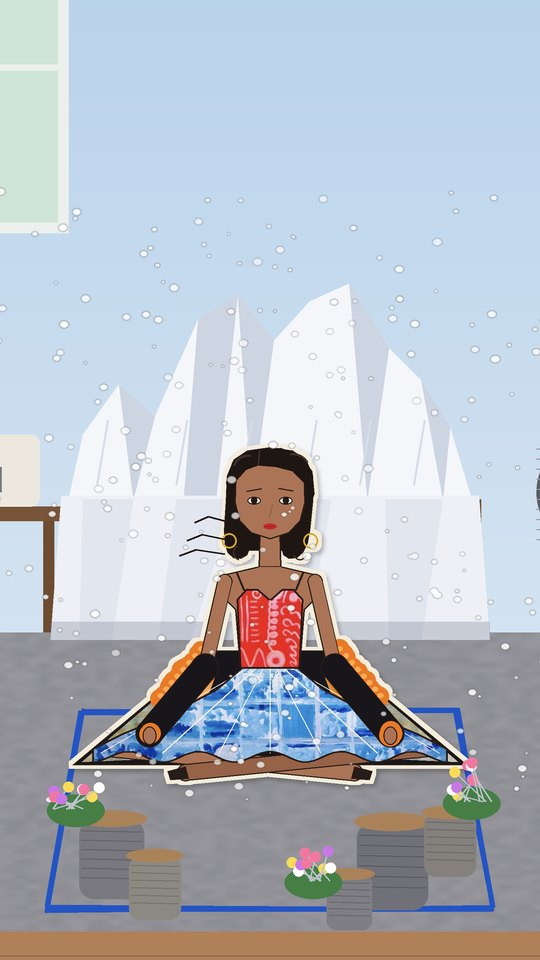
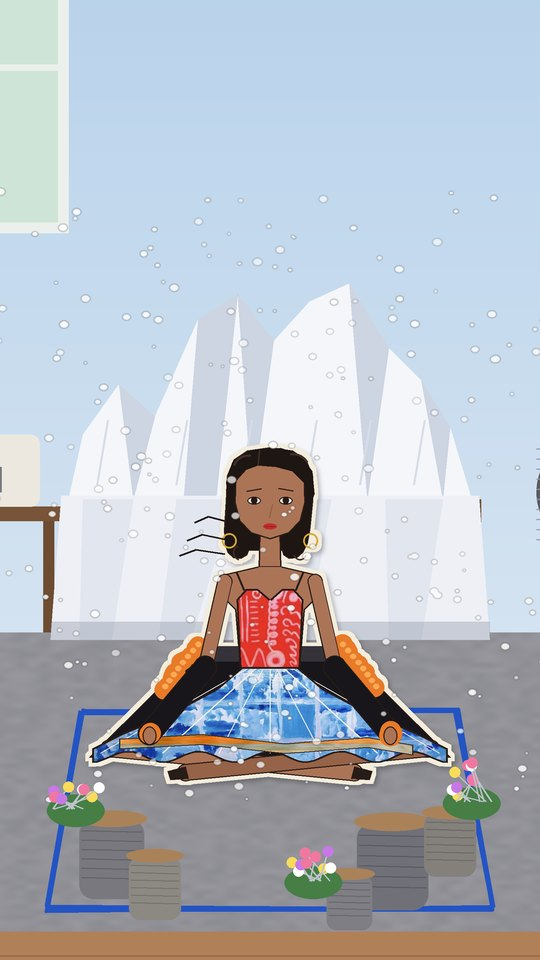
Reel 3 storyboard: tie wrap coat (Janaki on the belt, plain inside), jeweller frame, matching mirror pose
Claude-Session: https://claude.ai/code/session_019PesBt99WngamYtmRE4Gta

Changed region(s): [[0.1185, 0.6562, 0.8593, 0.8125]]

diff --git a/reel3/board.py b/reel3/board.py
@@ -356,15 +356,14 @@ def room(state="meditate"):
         d.rounded_rectangle([h[0] - 8, h[1] - 60, h[0] + 12, h[1] + 10], 6, fill=(36, 84, 196))
         # the coat lies folded beside her, lining up
         d.polygon([(1480, 3380), (1800, 3400), (1840, 3580), (1460, 3580)], fill=BLACK)
-        tex_fill(lay, JANAKI, [(1510, 3410), (1780, 3425), (1810, 3550), (1490, 3550)])
         fur_chain(ImageDraw.Draw(lay), [(1480, 3380), (1800, 3400)], 22, 9)
+        G2._tex_stretch(lay, JANAKI, [(1450, 3470), (1850, 3476), (1852, 3506), (1448, 3500)])
     elif state == "stitch":
         f = G2.draw(lay, 1080, GT, GH, pose="seat", arms="stitch", eyes="open")
         d = ImageDraw.Draw(lay)
         lap = f.pl([(-150, 312), (150, 312), (196, 404), (-196, 404)])
         d.polygon(lap, fill=BLACK, outline=G2.LINE, width=3)
-        tex_fill(lay, JANAKI, f.pl([(-120, 322), (40, 322), (60, 396), (-150, 396)]))
-        tex_fill(lay, SUNBELT, f.pl([(60, 330), (150, 330), (160, 356), (66, 356)]))
+        G2._tex_stretch(lay, JANAKI, f.pl([(-180, 360), (180, 360), (184, 378), (-184, 378)]))
         fur_chain(ImageDraw.Draw(lay), f.pl([(-150, 312), (150, 312)]), 22, 7)
         d = ImageDraw.Draw(lay)
         for hx, hy in ((-32, 336), (30, 330)):
@@ -424,16 +423,27 @@ def boutique():
         x = 140 + k * 120
         d.line([x, 236, x, 270], fill=(80, 80, 80), width=4)
         d.polygon([(x - 50, 270), (x + 50, 270), (x + 60, 560), (x - 60, 560)], fill=c)
-    # dress form wearing the coat, open: Janaki lining + sun belt
+    # dress form wearing the wrap coat, closed: fur collar + the Janaki tie are the details
     mx, my = 760, 520
     d.line([mx, my + 900, mx, my + 1040], fill=(60, 50, 40), width=14); d.ellipse([mx - 90, my + 1020, mx + 90, my + 1060], fill=(60, 50, 40))
-    d.polygon([(mx - 150, my + 20), (mx + 150, my + 20), (mx + 240, my + 900), (mx - 240, my + 900)], fill=BLACK)
-    tex_fill(img, JANAKI, [(mx - 70, my + 60), (mx + 70, my + 60), (mx + 120, my + 880), (mx - 120, my + 880)])
-    tex_fill(img, SUNBELT, [(mx - 190, my + 330), (mx + 190, my + 330), (mx + 196, my + 384), (mx - 196, my + 384)])
-    d.ellipse([mx - 60, my - 70, mx + 60, my + 30], fill=(214, 200, 180))
-    fur_chain(d, [(mx - 150, my + 30), (mx - 70, my + 60), (mx - 60, my + 300)], 30, 1)
-    fur_chain(d, [(mx + 150, my + 30), (mx + 70, my + 60), (mx + 60, my + 300)], 30, 2)
-    fur_chain(d, [(mx - 240, my + 880), (mx - 236, my + 870)], 30, 3); fur_chain(d, [(mx + 240, my + 880), (mx + 236, my + 870)], 30, 4)
+    d.ellipse([mx - 40, my - 60, mx + 40, my + 10], fill=(214, 200, 180))
+    for sx in (-1, 1):  # sleeves hanging straight
+        d.polygon([(mx + sx * 128, my + 40), (mx + sx * 170, my + 70), (mx + sx * 178, my + 610), (mx + sx * 122, my + 610)], fill=BLACK, outline=G2.LINE)
+        fur_chain(d, [(mx + sx * 128, my + 612), (mx + sx * 176, my + 612)], 22, 5 + sx)
+    body = [(mx - 132, my + 40), (mx + 132, my + 40), (mx + 118, my + 200), (mx + 104, my + 330), (mx + 124, my + 520), (mx + 140, my + 880),
+            (mx - 140, my + 880), (mx - 124, my + 520), (mx - 104, my + 330), (mx - 118, my + 200)]
+    d.polygon(body, fill=BLACK, outline=G2.LINE, width=3)
+    d.polygon([(mx - 40, my + 30), (mx + 40, my + 30), (mx, my + 200)], fill=(214, 200, 180))
+    d.line([(mx + 14, my + 360), (mx + 40, my + 620), (mx + 60, my + 880)], fill=(70, 66, 74), width=3)
+    for sx in (-1, 1):
+        fur_chain(d, [(mx + sx * 128, my + 40), (mx + sx * 46, my + 34), (mx + sx * 20, my + 180), (mx - sx * 6, my + 320)], 24, 1 + sx)
+    G2._tex_stretch(img, JANAKI, [(mx - 110, my + 318), (mx + 110, my + 318), (mx + 112, my + 362), (mx - 112, my + 362)])
+    for end in ([(mx - 40, my + 350), (mx - 14, my + 350), (mx - 34, my + 520), (mx - 62, my + 514)],
+                [(mx - 20, my + 352), (mx + 4, my + 354), (mx + 18, my + 540), (mx - 8, my + 544)]):
+        G2._tex_stretch(img, JANAKI.rotate(90, expand=True), end)
+    d = ImageDraw.Draw(img)
+    d.rectangle([mx - 112, my + 318, mx + 112, my + 362], outline=G2.LINE, width=2)
+    d.ellipse([mx - 46, my + 322, mx - 6, my + 360], outline=G2.LINE, width=2)
     tag = r2.ransom("SOLD", (173, 51, 97), size=62, seed=41, max_w=400)
     img.paste(tag, (mx - tag.width // 2, my + 940), tag)
     d.line([mx, my + 900, mx, my + 950], fill=(120, 90, 60), width=3)
@@ -448,14 +458,53 @@ def mirror():
     d.ellipse([m[0] - 22, m[1] - 22, m[2] + 22, m[3] + 22], fill=(170, 130, 60))
     refl = Image.new("RGB", (FW, FH), (214, 230, 242)); rd = ImageDraw.Draw(refl)
     rd.rectangle([0, 1500, FW, FH], fill=(166, 122, 86))
-    rl = refl.convert("RGBA"); G2.draw(rl, 775, 400, 1290, arms="necklace", necklace="diamond", eyes="open"); refl = rl.convert("RGB")
+    rl = refl.convert("RGBA"); G2.draw(rl, 775, 400, 1290, arms="down", necklace="diamond", eyes="open"); refl = rl.convert("RGB")
     mk = Image.new("L", (FW, FH), 0); ImageDraw.Draw(mk).ellipse(m, fill=255)
     img.paste(refl, (0, 0), mk)
     shade(img, [(560, 300), (680, 300), (600, 1500), (560, 1400)], (255, 255, 255), 0.12)
     d = ImageDraw.Draw(img)
     d.line([620, 1640, 560, 1800], fill=(150, 110, 50), width=14); d.line([930, 1640, 990, 1800], fill=(150, 110, 50), width=14)
     # her, seen from behind, mid-turn: the back top is the plain blue water
-    lay = img.convert("RGBA"); G2.draw(lay, 300, 480, 1400, view="back"); return lay.convert("RGB")
+    lay = img.convert("RGBA"); G2.draw(lay, 300, 480, 1400, view="back", arms="down"); return lay.convert("RGB")
+
+
+def jeweller():
+    """She pays with the coat money; the jeweller hands over the diamond necklace."""
+    img = Image.new("RGB", (FW, FH), (60, 46, 58)); d = ImageDraw.Draw(img)
+    for k in range(5):  # warm shop lights
+        d.ellipse([90 + k * 220, 160, 150 + k * 220, 220], fill=(250, 214, 150))
+    d.rectangle([0, 300, FW, 1230], fill=(222, 206, 190))
+    for k in range(3):  # wall display cases
+        x = 90 + k * 320; d.rectangle([x, 380, x + 240, 640], fill=(70, 52, 64), outline=(196, 160, 80), width=6)
+        for j in range(3):
+            d.arc([x + 40 + j * 60, 450, x + 90 + j * 60, 540], 200, 340, fill=(236, 230, 214), width=4)
+    lay = img.convert("RGBA")
+    G2.draw(lay, 380, 520, 1500, arms="pay", eyes="open")
+    f = G2.Fig(380, 520, 1500 / 975)
+    d = ImageDraw.Draw(lay)
+    hx, hy = f.p(176, 290)
+    for k, c in enumerate([(206, 228, 196), (230, 214, 236), (206, 228, 196)]):  # folded notes
+        d.polygon([(hx - 10 + k * 8, hy - 40 - k * 10), (hx + 110 + k * 8, hy - 60 - k * 10), (hx + 118 + k * 8, hy - 8 - k * 10), (hx - 2 + k * 8, hy + 12 - k * 10)], fill=c, outline=(90, 110, 90))
+    # jeweller's arm from the right, holding the open box
+    d.polygon([(FW, 820), (820, 860), (812, 930), (FW, 930)], fill=(40, 70, 60))
+    d.ellipse([776, 848, 836, 920], fill=(196, 140, 110))
+    bx, by = 600, 760
+    d.rectangle([bx, by, bx + 220, by + 130], fill=(30, 40, 90), outline=(196, 160, 80), width=4)
+    d.polygon([(bx, by), (bx + 220, by), (bx + 200, by - 110), (bx + 20, by - 110)], fill=(36, 48, 104), outline=(196, 160, 80))
+    d.rectangle([bx + 16, by + 14, bx + 204, by + 116], fill=(236, 232, 240))
+    for i, t in enumerate(np.linspace(0.1, 0.9, 13)):
+        a = np.pi * t; x, y = bx + 110 - 70 * np.cos(a), by + 30 + 50 * np.sin(a)
+        d.ellipse([x - 7, y - 7, x + 7, y + 7], fill=(245, 248, 255), outline=(140, 170, 210))
+    d.polygon([(bx + 110, by + 82), (bx + 122, by + 98), (bx + 110, by + 116), (bx + 98, by + 98)], fill=(240, 248, 255), outline=(130, 160, 210))
+    for (sx, sy, r) in ((bx + 150, by + 50, 22), (bx + 60, by + 70, 14)):
+        d.line([sx - r, sy, sx + r, sy], fill=(255, 255, 255), width=4); d.line([sx, sy - r, sx, sy + r], fill=(255, 255, 255), width=4)
+    # glass counter in front (covers her lower half)
+    d.rectangle([0, 1230, FW, 1920], fill=(70, 52, 64))
+    d.rectangle([0, 1200, FW, 1240], fill=(196, 160, 80))
+    d.rectangle([60, 1290, 1020, 1600], fill=(150, 176, 196), outline=(196, 160, 80), width=6)
+    for k in range(4):
+        x = 140 + k * 230; d.arc([x, 1380, x + 120, 1480], 200, 340, fill=(236, 230, 214), width=5)
+    return lay.convert("RGB")
 
 
 def endcard():
@@ -481,6 +530,7 @@ COPY = {
     "05": "There's a child in there who never stopped playing.",
     "06": "Hand her your problems and a crayon.",
     "07": "She'll fix what your mind couldn't.",
+    "07b": "She'll fix what your mind couldn't.",
     "08": "There. I have just taught you how to meditate.",
 }
 
@@ -500,22 +550,23 @@ def main():
     w_off = room("coatoff")
     frames.append(("04b", "11-13 s  eyes open, coat slides off: the dress", crop_frame(w_off, gx, 2900, 1500)))
     frames.append(("05", "13-16 s  the child plays: crayon sketches", crop_frame(room("crayon"), gx, 2960, 1500)))
-    frames.append(("06", "16-19 s  she stitches the coat (Janaki lining, sun belt)", crop_frame(room("stitch"), gx, 2960, 1500)))
-    frames.append(("07", "19-23 s  boutique: the coat sells", boutique()))
-    frames.append(("08", "23-28 s  mirror: dress + diamond necklace, she turns", mirror()))
-    frames.append(("09", "28-30 s  end card", endcard()))
+    frames.append(("06", "16-19 s  she stitches the coat (the Janaki tie)", crop_frame(room("stitch"), gx, 2960, 1500)))
+    frames.append(("07", "19-22 s  boutique: the coat sells", boutique()))
+    frames.append(("07b", "22-25 s  jeweller: she pays, takes the necklace", jeweller()))
+    frames.append(("08", "25-29 s  mirror: she wears it with the dress, turns", mirror()))
+    frames.append(("09", "29-31 s  end card", endcard()))
 
     sheet_items = []
     for key, label, fr in frames:
         k = key[:2]
         if key in COPY:
-            fr = add_text(fr, COPY[key], seed=100 + int(k), y=470 if key not in ("07", "08") else 250, size=76 if key != "08" else 68)
+            fr = add_text(fr, COPY[key], seed=100 + int(k), y=470 if key not in ("07", "07b", "08") else 250, size=76 if key != "08" else 68)
         low = fr.resize(LOW, Image.LANCZOS)
         low.save(os.path.join(OUT, f"frame_{key}.jpg"), quality=86)
         sheet_items.append((key, label, low))
     # contact sheet, 5 x 2
     tw, th = 270, 480
-    cols = 5; rows = (len(sheet_items) + cols - 1) // cols
+    cols = 6; rows = (len(sheet_items) + cols - 1) // cols
     sheet = Image.new("RGB", (cols * (tw + 16) + 16, rows * (th + 70) + 16), (246, 242, 236)); sd = ImageDraw.Draw(sheet)
     for i, (key, label, low) in enumerate(sheet_items):
         x, y = 16 + (i % cols) * (tw + 16), 16 + (i // cols) * (th + 70)

diff --git a/reel3/girl.py b/reel3/girl.py
@@ -104,6 +104,8 @@ ARMS = {
     "knees":    ([(-60, 176), (-86, 290), (-160, 378)], [(60, 176), (86, 290), (160, 378)]),
     "crayon":   ([(-60, 176), (-82, 290), (-110, 392)], [(60, 176), (88, 290), (40, 396)]),
     "stitch":   ([(-60, 176), (-86, 286), (-32, 336)], [(60, 176), (86, 286), (30, 330)]),
+    "pay":      ([(-60, 176), (-66, 300), (-70, 420)], [(60, 176), (98, 262), (176, 286)]),
+    "necklace_back": ([(-60, 176), (-66, 300), (-70, 420)], [(60, 176), (74, 262)]),   # hand hidden in front
 }
 
 
@@ -126,45 +128,72 @@ def _fur(d, pts, r, seed=0):
         d.ellipse([q[0] - rr * 0.6, q[1] - rr * 1.1, q[0] + rr * 0.9, q[1] + rr * 0.2], fill=FUR_L)
 
 
+COAT_IN = (54, 50, 58)   # plain inside of the coat (no print)
+
+
+def _tex_stretch(fig, tex, poly):
+    """The whole painting squeezed into the shape (nothing cropped): used for the tie belt."""
+    xs = [q[0] for q in poly]; ys = [q[1] for q in poly]
+    x0, y0, x1, y1 = int(min(xs)), int(min(ys)), int(max(xs)) + 1, int(max(ys)) + 1
+    t = tex.resize((max(1, x1 - x0), max(1, y1 - y0)), Image.LANCZOS).convert("RGBA")
+    m = Image.new("L", t.size, 0)
+    ImageDraw.Draw(m).polygon([(a - x0, b - y0) for a, b in poly], fill=255)
+    fig.paste(t, (x0, y0), m)
+
+
+def _robe_side(sx):
+    return [(sx * 30, 164), (sx * 64, 168), (sx * 68, 186), (sx * 60, 210), (sx * 48, 262), (sx * 46, 292),
+            (sx * 80, 318), (sx * 150, 352), (sx * 210, 384), (sx * 226, 408), (sx * 120, 414), (0, 416)]
+
+
 def _coat_back(fig, f, coat, pose):
+    if coat != "slip":
+        return
     d = ImageDraw.Draw(fig)
-    hem_y = 420 if pose == "seat" else 700
-    hem_x = 250 if pose == "seat" else 120
-    if coat == "on":
-        d.polygon(f.pl([(-60, 162), (60, 162), (112, 290), (hem_x, hem_y), (-hem_x, hem_y), (-112, 290)]), fill=COAT, outline=LINE, width=f.w(2))
-    else:  # slipped to the elbows: the lining shows
-        d.polygon(f.pl([(-92, 268), (92, 268), (142, 320), (262, 420), (-262, 420), (-142, 320)]), fill=COAT, outline=LINE, width=f.w(2))
-        for sx in (-1, 1):
-            _tex(fig, JANAKI, f.pl([(sx * 90, 272), (sx * 72, 300), (sx * 112, 410), (sx * 250, 416), (sx * 140, 322)]))
-        d = ImageDraw.Draw(fig)
-        for sx in (-1, 1):
-            _fur(d, f.pl([(sx * 92, 268), (sx * 120, 300), (sx * 146, 330)]), f.w(12), seed=8 + sx)
+    # untied, slipped down behind her: only the plain inside edge shows
+    d.polygon(f.pl([(-98, 262), (98, 262), (150, 320), (240, 410), (-240, 410), (-150, 320)]), fill=COAT, outline=LINE, width=f.w(2))
+    d.polygon(f.pl([(-98, 262), (98, 262), (112, 282), (-112, 282)]), fill=COAT_IN)
+    for sx in (-1, 1):
+        _fur(d, f.pl([(sx * 96, 262), (sx * 120, 290), (sx * 140, 318)]), f.w(12), seed=8 + sx)
 
 
 def _coat_front(fig, f, pose):
+    """Straight wrap coat, tied like a bathrobe: fur shawl collar, the whole Colours of Janaki on the tie."""
     d = ImageDraw.Draw(fig)
-    hem_y = 420 if pose == "seat" else 700
-    hem_x = 250 if pose == "seat" else 120
-    for sx in (-1, 1):
-        panel = [(sx * 64, 166), (sx * 30, 168), (sx * 8, 292), (sx * 6, hem_y - 4), (sx * hem_x, hem_y), (sx * 112, 300), (sx * 70, 200)]
-        d.polygon(f.pl(panel), fill=COAT, outline=LINE, width=f.w(2))
-    _tex(fig, JANAKI, f.pl([(-6, 330), (-6, hem_y - 4), (-80, hem_y - 4)]))   # lining flash
+    robe = _robe_side(-1)[:-1] + [(0, 416)] + _robe_side(1)[::-1][1:]
+    d.polygon(f.pl(robe), fill=COAT, outline=LINE, width=f.w(2))
+    # V at the chest: the dress top shows
+    d.polygon(f.pl([(-24, 166), (24, 166), (0, 190)]), fill=SKIN)
+    _tex(fig, SPRING, f.pl([(-22, 186), (22, 186), (0, 252)]))
     d = ImageDraw.Draw(fig)
-    for sx in (-1, 1):
-        _fur(d, f.pl([(sx * 62, 164), (sx * 32, 170), (sx * 18, 230), (sx * 9, 286)]), f.w(12), seed=1 + sx)
-    _tex(fig, SUNBELT, f.pl([(-116, 278), (116, 278), (118, 300), (-118, 300)]))   # sun belt
+    d.line(f.pl([(6, 300), (18, 360), (34, 414)]), fill=(70, 66, 74), width=f.w(2))      # wrap edge below the tie
+    d.line(f.pl([(-40, 222), (-30, 262)]), fill=(52, 48, 56), width=f.w(1.5))           # soft fold
+    for sx in (-1, 1):                                                                   # fur shawl collar
+        _fur(d, f.pl([(sx * 62, 166), (sx * 30, 172), (sx * 12, 220), (-sx * 2, 268)]), f.w(11), seed=1 + sx)
+    belt = [(-50, 276), (50, 276), (50, 298), (-50, 298)]
+    _tex_stretch(fig, JANAKI, f.pl(belt))
+    for end in ([(-22, 292), (-10, 292), (-24, 364), (-38, 360)], [(-12, 292), (0, 294), (8, 374), (-6, 376)]):
+        _tex_stretch(fig, JANAKI.rotate(90, expand=True), f.pl(end))
     d = ImageDraw.Draw(fig)
-    d.polygon(f.pl([(-116, 278), (116, 278), (118, 300), (-118, 300)]), outline=LINE, width=f.w(1.5))
-    d.ellipse([*f.p(-11, 280), *f.p(11, 300)], fill=(240, 160, 40), outline=LINE, width=f.w(1.5))
-    for sx in (-1, 1):
-        d.line(f.pl([(sx * 4, 298), (sx * 16, 340)]), fill=(240, 160, 40), width=f.w(6))
+    d.polygon(f.pl(belt), outline=LINE, width=f.w(1.5))
+    d.ellipse([*f.p(-24, 279), *f.p(-4, 297)], outline=LINE, width=f.w(1.5))
+    kn = f.pl([(-24, 279), (-4, 297)])
+    _tex(fig, SUNBELT, [kn[0], (kn[1][0], kn[0][1]), kn[1], (kn[0][0], kn[1][1])])
+
+
+def _belt_loose(fig, f):
+    """Untied tie lying across her lap: the whole painting on it."""
+    pts = [(-200, 392), (-90, 386), (20, 398), (130, 390), (190, 400)]
+    poly = [(x, y - 7) for x, y in pts] + [(x, y + 7) for x, y in pts[::-1]]
+    _tex_stretch(fig, JANAKI, f.pl(poly))
+    ImageDraw.Draw(fig).polygon(f.pl(poly), outline=LINE, width=f.w(1.5))
 
 
 def draw(layer, cx, top, height, view="front", eyes="closed", necklace=None, earrings=True,
          pose="stand", arms="down", coat=None, wind=0.0):
     """Draw the girl onto RGBA `layer` (with sticker edge).
-    pose: stand | seat (cross-legged).  arms: down | necklace | knees | crayon | stitch.
-    coat: None | on | slip (black long coat, orange fur, Colours of Janaki lining, sun belt).  Returns the Fig mapping."""
+    pose: stand | seat (cross-legged).  arms: down | necklace | necklace_back | knees | crayon | stitch | pay.
+    coat: None | on | slip (straight black wrap coat, orange fur collar + cuffs, tie belt printed with the whole Colours of Janaki).  Returns the Fig mapping."""
     f = Fig(cx, top, height / 975)
     fig = Image.new("RGBA", layer.size, (0, 0, 0, 0)); d = ImageDraw.Draw(fig)
     _bob(d, f, back=(view == "back"), wind=wind)
@@ -180,16 +209,18 @@ def draw(layer, cx, top, height, view="front", eyes="closed", necklace=None, ear
         d.line(f.pl([(sx * 17 - 9, 952), (sx * 17 + 9, 952)]), fill=LINE, width=f.w(3))
         d.line(f.pl([(sx * 17 + 6, 950), (sx * 17 + 10, 968)]), fill=LINE, width=f.w(3))
         d.line(f.pl([(sx * 17 - 8, 942), (sx * 17 + 9, 940)]), fill=GOLD, width=f.w(2))
-    # skirt (front and back are the same print)
+    # skirt (front and back are the same print); under the coat the linen lies flat, so it isn't drawn
     sk = f.pl(_skirt_poly() if pose == "stand" else _skirt_seat())
-    _tex(fig, SKIRT, sk)
+    if coat != "on":
+        _tex(fig, SKIRT, sk)
     d = ImageDraw.Draw(fig)
-    for x in (-150, -95, -45, 0, 45, 95, 150):  # panel seams
+    for x in ((-150, -95, -45, 0, 45, 95, 150) if coat != "on" else ()):  # panel seams
         if pose == "stand":
             d.line([f.p(x * 0.2, 292), f.p(x, 566 - 6 * abs(np.cos(x / 20)))], fill=(255, 255, 255, 70), width=f.w(1.5))
         else:
             d.line([f.p(x * 0.2, 292), f.p(x * 1.5, 404)], fill=(255, 255, 255, 70), width=f.w(1.5))
-    d.polygon(sk, outline=LINE, width=f.w(2.5))
+    if coat != "on":
+        d.polygon(sk, outline=LINE, width=f.w(2.5))
     # neck + shoulders (angular, like Reverie)
     d.polygon(f.pl([(-14, 112), (14, 112), (15, 160), (-15, 160)]), fill=SKIN, outline=LINE, width=f.w(2))
     torso = [(-15, 156), (-58, 166), (-66, 178), (-64, 196), (-46, 214), (-40, 292), (40, 292), (46, 214), (64, 196), (66, 178), (58, 166), (15, 156)]
@@ -246,17 +277,21 @@ def draw(layer, cx, top, height, view="front", eyes="closed", necklace=None, ear
         d2.line(f.pl([(0, 4), (0, 60)]), fill=HAIR_HI, width=f.w(2))
     if coat == "on":
         _coat_front(fig, f, pose)
-        d = ImageDraw.Draw(fig)
+    elif coat == "slip":
+        _belt_loose(fig, f)
+    d = ImageDraw.Draw(fig)
     # arms (in front of the skirt edge)
     for sx, path in zip((-1, 1), ARMS[arms]):
         pts = [f.p(x, y) for x, y in path]
         if coat == "on":
-            _limb(d, pts, f.w(34), COAT, f)
+            _limb(d, pts, f.w(28), COAT, f)
         elif coat == "slip":
-            _limb(d, pts[:2], f.w(17), SKIN, f); _limb(d, pts[1:], f.w(34), COAT, f)
+            _limb(d, pts[:2], f.w(17), SKIN, f); _limb(d, pts[1:], f.w(28), COAT, f)
         else:
             _limb(d, pts, f.w(17), SKIN, f)
         h = pts[-1]
+        if len(pts) == 2:
+            continue
         if coat:
             _fur(d, [h, (h[0] + 1, h[1])], f.w(13), seed=3 + sx)
         r = f.w(9)
